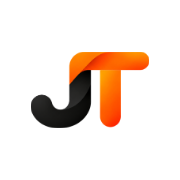
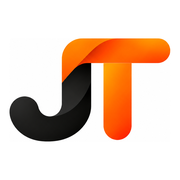
Фавикон: новый логотип во всю плитку, значок 120×120 для Яндекса (#401)
В выдаче Яндекса висел старый значок: маленькая «JT» в белом квадрате.
Наши иконки тоже были с большими полями — логотип занимал треть плитки.

- favicon.ico (16/32/48, и копия в assets/images для деплоя),
  apple-touch-icon, icon-192, icon-512 — логотип обрезан плотно, поля ~6%,
  фон белый (на тёмной теме выдачи чёрная «J» видна);
- favicon-120.png — размер, который берёт Яндекс; ссылка в +html.tsx;
- ?v=3 у значков — сброс кэша браузеров;
- для purpose: maskable остался значок с полями — icon-maskable-512.png;
- исходник логотипа — assets/images/logo-source.png.

Claude-Session: https://claude.ai/code/session_01JV9sQoBJveSzFW1JSJkdhD

Changed region(s): [[0.0278, 0.1944, 0.9722, 0.8056]]

diff --git a/app/+html.tsx b/app/+html.tsx
@@ -36,7 +36,9 @@ export default function Root({ children }: PropsWithChildren) {
         <link rel="apple-touch-icon" href="/apple-touch-icon.png" />
 
         {/* Favicon */}
-        <link rel="icon" href="/favicon.ico?v=2" sizes="any" />
+        <link rel="icon" href="/favicon.ico?v=3" sizes="any" />
+        {/* 120×120 — размер, который берёт Яндекс в выдачу (02.10.2026: там висел старый значок с полями). */}
+        <link rel="icon" type="image/png" sizes="120x120" href="/favicon-120.png?v=3" />
         <link rel="icon" type="image/png" sizes="192x192" href="/icon-192.png" />
 
         <ScrollViewStyleReset />

diff --git a/docs/MAP.md b/docs/MAP.md
@@ -1871,7 +1871,11 @@ HTTP-движок остановился на `UNSUPPORTED_SCRIPT`/`VACANCY_NOT_
   (16/32/48) — **и копия `assets/images/favicon.ico`**, деплой кладёт её поверх
   (`deploy-regru.yml`, `local-web-deploy.sh`); `public/icon-192.png`,
   `icon-512.png` — манифест и пуши (`sw.js`); `apple-touch-icon.png` — «на экран
-  Домой» iOS; `jt-logo.jpg` — старое имя, тот же логотип. Иконка приложения в
+  Домой» iOS; `favicon-120.png` — для выдачи Яндекса. С 02.10.2026 логотип в них
+  обрезан плотно (поля ~6%, белый фон — на тёмной теме выдачи чёрная «J» видна);
+  с полями остался только `icon-maskable-512.png` (`purpose: maskable`: Android
+  обрезает края). Источник — `assets/images/logo-source.png`. Сменил значок — подними `?v=`
+  в `app/+html.tsx`; `jt-logo.jpg` — старое имя, старый вид логотипа. Иконка приложения в
   `app.json` — отдельно, меняется только новой сборкой.
 - `infra/bootstrap.sh` — сервер раз в минуту проверяет обновления и тянет их сам.
 - Нагрузка (01.10.2026, стресс-тест копии): пул PHP — 20 процессов, `max_requests`
